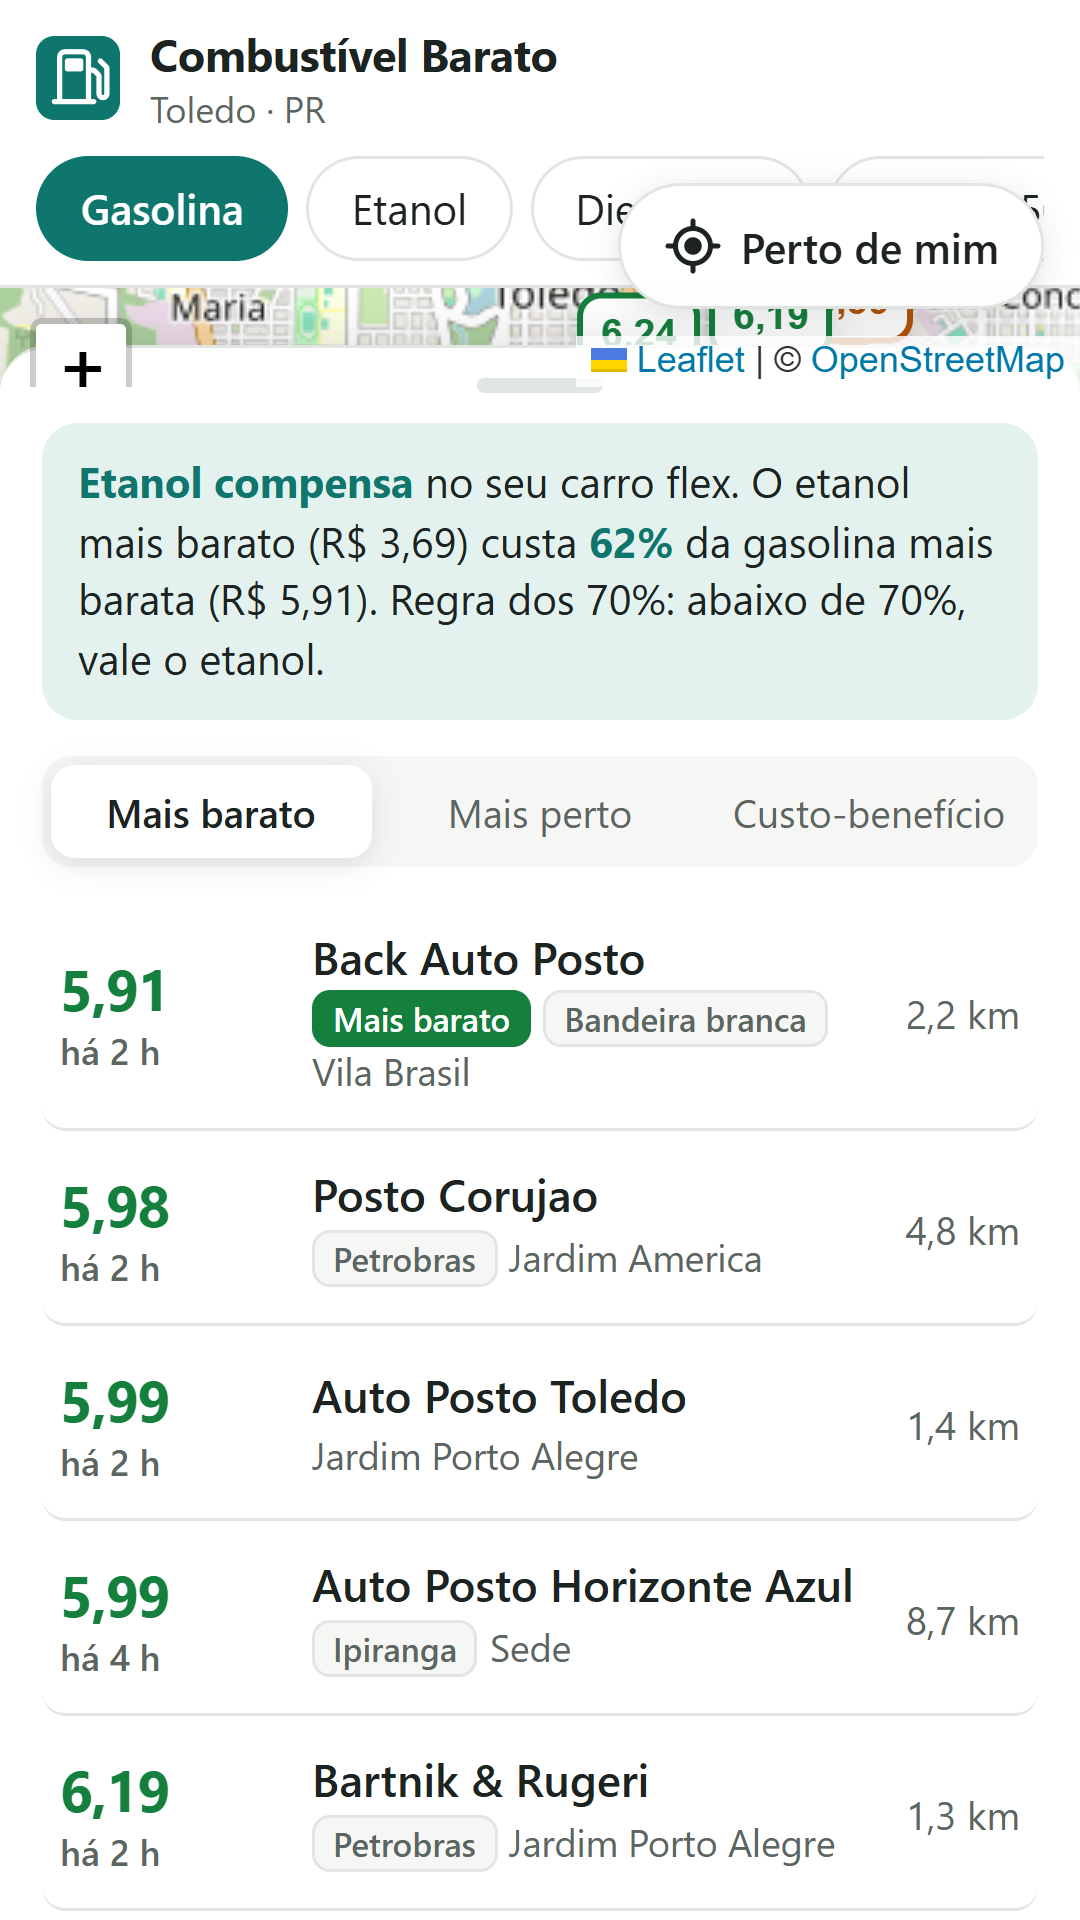
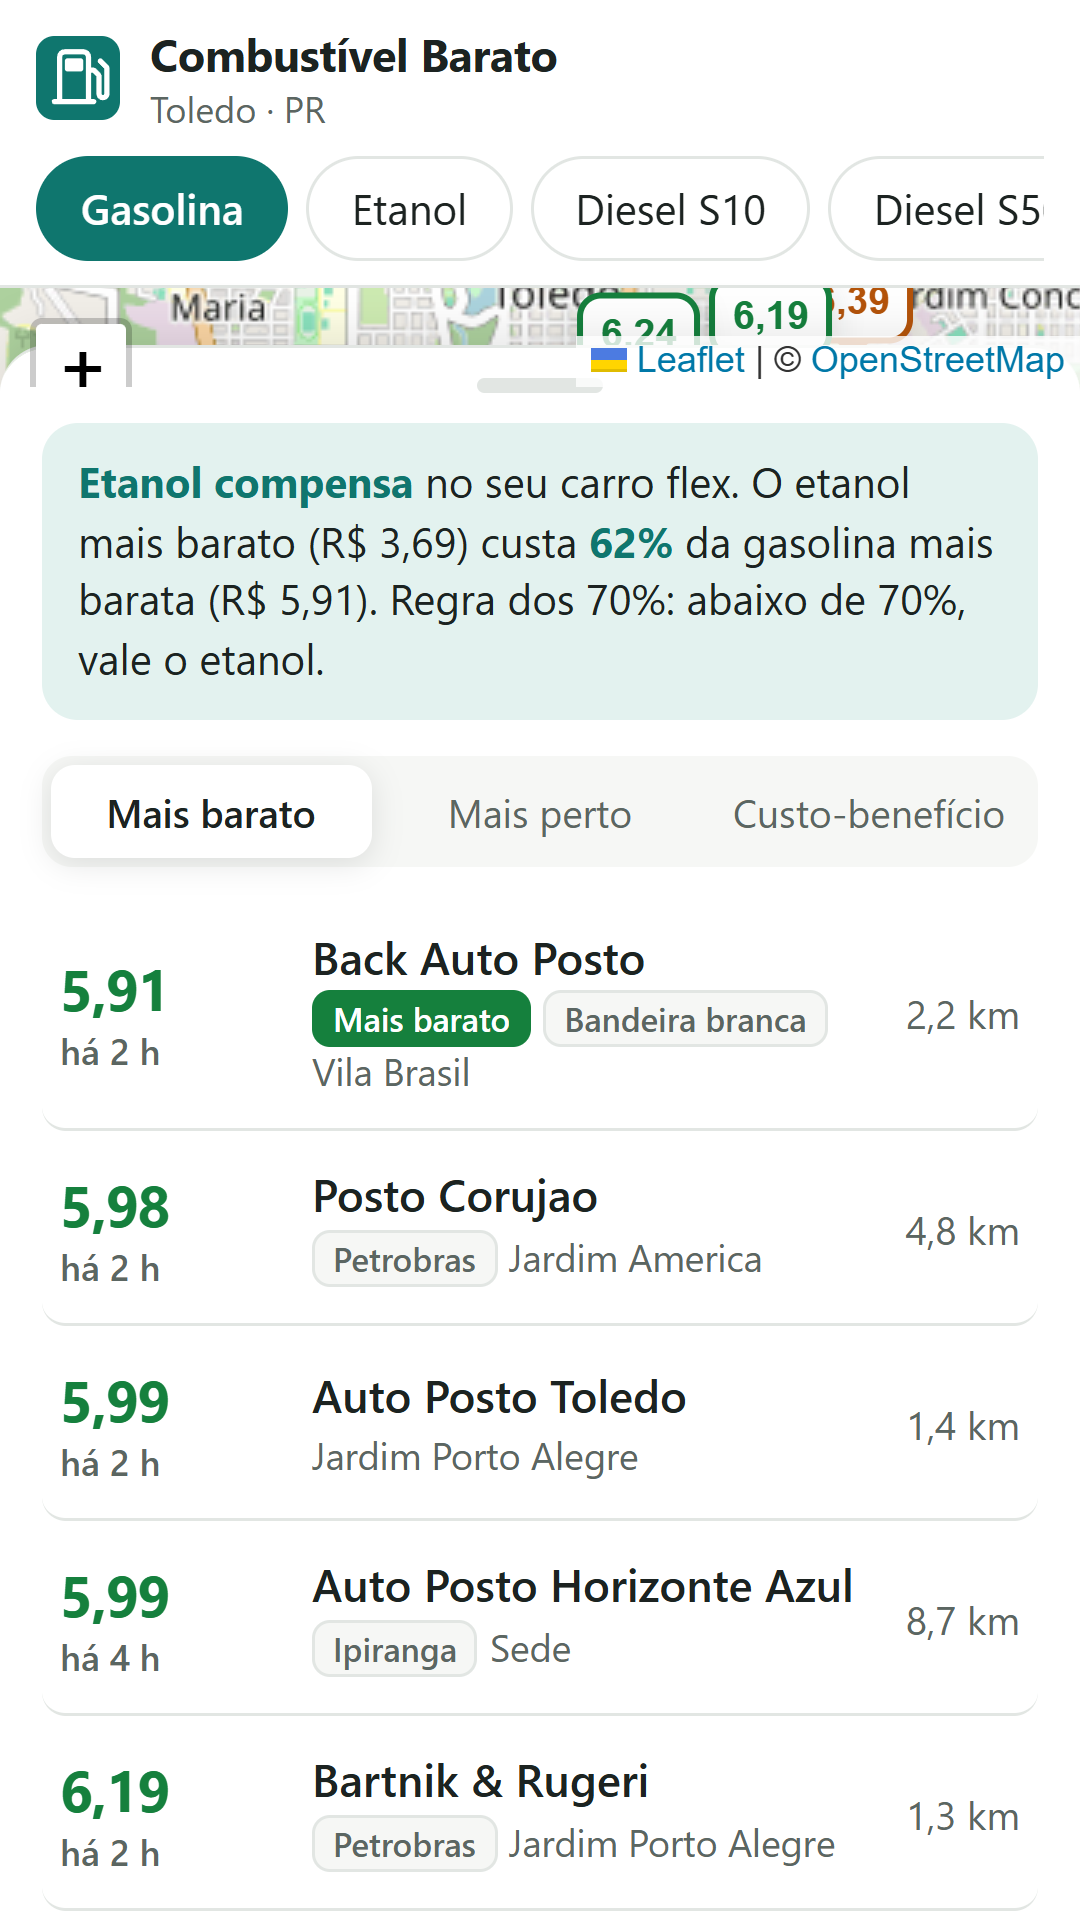
Play Store: guia passo a passo, capturas novas, compilação fora do OneDrive, versão 1.0.0

Changed region(s): [[0.5806, 0.0938, 0.9472, 0.1875]]

diff --git a/ferramentas/gerar-android.js b/ferramentas/gerar-android.js
@@ -24,7 +24,7 @@ const SITE = 'https://robsonmj.github.io/combustivel-barato/';
   j.name = 'Combustível Barato';
   j.launcherName = 'Combustível';
   j.appVersionCode = codigo;
-  j.appVersionName = nome;
+  j.appVersion = nome;
   j.navigationColor = '#0f766e';
   j.navigationColorDark = '#0f766e';
   j.themeColorDark = '#111614';

diff --git a/play-store/GUIA-PLAY-STORE.md b/play-store/GUIA-PLAY-STORE.md
@@ -1,0 +1,151 @@
+# Combustível Barato na Google Play: passo a passo
+
+Tudo o que dá para fazer sem você já está pronto. O que falta são as etapas que só o dono da conta pode fazer: pagar, verificar a identidade e clicar em "Publicar".
+
+## O que já está pronto
+
+| Item | Onde está |
+|---|---|
+| App Android assinado, para enviar à Play | `play-store/arquivos/combustivel-barato.aab` |
+| App para instalar direto no seu celular e testar | `play-store/arquivos/combustivel-barato.apk` |
+| Chave de assinatura e senha (**guarde cópia num pendrive**) | `android-chave/` (não vai para o GitHub) |
+| Verificação site ↔ app (o app abre em tela cheia, sem barra de endereço) | https://robsonmj.github.io/.well-known/assetlinks.json |
+| 5 capturas de tela 1080×1920 e gráfico de destaque 1024×500 | `play-store/imagens/` |
+| Ícone 512×512 | `public/icone-512.png` |
+| Política de privacidade | https://robsonmj.github.io/combustivel-barato/privacidade.html |
+| Página de exclusão de conta | https://robsonmj.github.io/combustivel-barato/excluir-conta.html |
+
+Nome do pacote, que não pode mudar depois: `io.github.robsonmj.combustivelbarato`
+
+---
+
+## Passo 1: criar a conta de desenvolvedor (só você pode)
+
+1. Acesse https://play.google.com/console/signup com o seu Gmail.
+2. Escolha o tipo de conta:
+   - **Pessoal** (CPF): mais rápida de abrir. Contas pessoais novas precisam fazer um **teste fechado com pelo menos 12 testadores durante 14 dias seguidos** antes de liberar o app para o público (Passo 4).
+   - **Organização** (CNPJ): exige o número D-U-N-S da empresa, que é gratuito e leva alguns dias. Não exige o teste com 12 pessoas. Só vale a pena se a empresa já existir; lembre da questão do seu estatuto.
+3. Pague a taxa única de **US$ 25** com cartão.
+4. Envie o documento com foto e confirme o telefone. O Google costuma levar de 1 a 3 dias para verificar.
+
+## Passo 2: criar o app no Console
+
+Em "Criar app":
+
+- **Nome do app:** Combustível Barato
+- **Idioma padrão:** Português (Brasil)
+- **App ou jogo:** App
+- **Gratuito ou pago:** Gratuito. Essa escolha não pode virar "pago" depois, mas você pode vender destaque e patrocínio fora do app normalmente.
+- Marque as duas declarações e clique em **Criar app**.
+
+## Passo 3: enviar o app para o teste fechado
+
+1. Menu **Testar e lançar → Testes → Teste fechado → Criar faixa** (ou use a faixa "Alpha").
+2. Em **Testadores**, crie uma lista com os e-mails (Gmail) de pelo menos 12 pessoas.
+3. **Criar nova versão**. Aceite a **Assinatura de apps do Google Play**, que é o padrão.
+4. Envie o arquivo `play-store/arquivos/combustivel-barato.aab`.
+5. **Nome da versão:** 1.0.0. **Notas:** "Primeira versão: preços de combustíveis dos postos de Toledo-PR no mapa."
+6. Salve, revise e envie para análise. A primeira análise leva de 1 a 7 dias.
+
+### ⚠ Importante logo depois do envio
+
+Vá em **Configuração → Integridade do app → Assinatura de apps** e copie o **SHA-256 da chave de assinatura do app**. É uma sequência como `AB:CD:12:...`.
+**Mande esse código para o Claude.** Ele precisa entrar no arquivo de verificação. Sem isso, o app baixado da Play abre com a barra de endereço do navegador no topo.
+
+## Passo 4: os 12 testadores por 14 dias (só conta pessoal)
+
+- Na faixa do teste fechado, copie o **link de participação** e mande para os testadores.
+- Cada pessoa abre o link, toca em "Tornar-se testador" e instala pela Play.
+- Elas precisam **manter o app instalado por 14 dias seguidos**. Peça que abram de vez em quando.
+- Depois disso, em **Painel → Solicitar acesso à produção**, responda ao questionário. Os textos prontos estão no fim deste guia.
+
+## Passo 5: preencher "Conteúdo do app"
+
+Fica no menu **Política → Conteúdo do app**. Respostas prontas:
+
+| Pergunta | Resposta |
+|---|---|
+| Política de privacidade | https://robsonmj.github.io/combustivel-barato/privacidade.html |
+| Acesso ao app | "Todas ou algumas funcionalidades são restritas". Instruções: *"O app principal (mapa e preços) não exige login. Apenas a 'Área do posto' (link no rodapé) exige login por link enviado ao e-mail e aprovação manual, pois é exclusiva para donos de postos verificados. Todas as funções para motoristas podem ser testadas sem login."* |
+| Anúncios | **Sim, o app contém anúncios** (faixa de patrocinadores e postos patrocinados) |
+| Classificação de conteúdo | Categoria "Todos os outros tipos de app". Responda **Não** a tudo: violência, sexo, linguagem, drogas, apostas, compras digitais, interação entre usuários e compartilhamento de localização com outros usuários. Resultado esperado: **Livre (L)** |
+| Público-alvo | **18 anos ou mais**, para evitar as regras de apps para crianças |
+| App de notícias | Não |
+| Apps governamentais | **Não** é app do governo (o app já diz que é independente) |
+| Recursos financeiros | O app não oferece recursos financeiros |
+| Saúde | Não |
+| Segurança dos dados | Ver a tabela abaixo |
+
+### Segurança dos dados (Data safety)
+
+- **O app coleta ou compartilha dados?** Sim.
+- **Os dados são criptografados em trânsito?** Sim.
+- **Usuários podem pedir exclusão?** Sim. URL: https://robsonmj.github.io/combustivel-barato/excluir-conta.html
+- **Dados coletados**, todos apenas de **donos de posto**, **não compartilhados**, **opcionais** e usados para **Funcionalidade do app** e **Gerenciamento da conta**:
+  - Informações pessoais: **Endereço de e-mail**, **Nome**, **Número de telefone**.
+- **Localização:** **não declarar**. Ela é usada só no aparelho para calcular a distância e não é enviada a nenhum servidor.
+
+## Passo 6: página da loja (Presença na loja → Página principal)
+
+**Nome do app** (até 30 caracteres):
+```
+Combustível Barato
+```
+
+**Descrição breve** (até 80 caracteres):
+```
+Preço da gasolina, etanol e diesel nos postos de Toledo-PR, no mapa.
+```
+
+**Descrição completa:**
+```
+Encontre o combustível mais barato perto de você.
+
+O Combustível Barato mostra no mapa o preço da gasolina, etanol, diesel S10 e diesel S500 nos postos de Toledo (PR), com os preços mais recentes de cada posto.
+
+• Mapa com o preço de cada posto
+• Lista ordenada por mais barato, mais perto ou custo-benefício (preço + distância até lá)
+• Etanol ou gasolina? O app calcula a regra dos 70% para o seu carro flex
+• Rota até o posto pelo Google Maps ou Waze, com um toque
+• Sem cadastro e sem login para motoristas
+• Sua localização é usada só no seu celular, para calcular distâncias
+
+De onde vêm os preços
+Os preços vêm das informações públicas do Nota Paraná / Menor Preço (valores registrados nas notas fiscais eletrônicas de venda) e dos próprios postos parceiros, que aparecem com o selo "Confirmado pelo posto". O horário mostrado é o da última venda registrada. Confira sempre o preço na bomba.
+
+É dono de posto?
+Na "Área do posto" você atualiza os preços do seu posto gratuitamente e ganha o selo de preço confirmado. Também é possível anunciar com destaque no app.
+
+O Combustível Barato é um app independente, sem vínculo com o Governo do Paraná, a Secretaria da Fazenda ou o programa Nota Paraná.
+```
+
+**Imagens:**
+- Ícone do app (512×512): `public/icone-512.png`
+- Gráfico de destaque (1024×500): `play-store/imagens/grafico-destaque-1024x500.png`
+- Capturas de tela do telefone, na ordem: `play-store/imagens/1-...` até `5-...`
+
+**Categoria:** Mapas e navegação. **Tags:** Postos de combustível, Economia.
+**E-mail de contato:** robsonmj@gmail.com. **Site:** https://robsonmj.github.io/combustivel-barato/
+
+## Questionário de acesso à produção (só conta pessoal), com respostas sugeridas
+
+- *Como você recrutou os testadores?* "Amigos, familiares e motoristas de Toledo-PR convidados pessoalmente e pelo WhatsApp."
+- *Como foi o engajamento?* "Os testadores usaram o mapa para comparar preços antes de abastecer e testaram a rota até o posto e a troca de combustível."
+- *Que mudanças você fez com base no retorno?* Descreva o que mudou de fato. Exemplo: "Ajustamos o botão 'Perto de mim' para não cobrir a lista e deixamos mais claro de onde vêm os preços."
+- *Público do app:* "Motoristas de Toledo-PR que querem economizar no combustível."
+
+---
+
+## Depois de publicado: como ficam as atualizações
+
+- **Quase tudo se atualiza sozinho.** O app da Play abre o site, então preços, telas e correções chegam a todos na hora, sem enviar versão nova à loja. Isso vale também para quem instalou pelo navegador.
+- **Só precisa gerar um `.aab` novo** se mudar o nome, o ícone ou as cores do app. O Claude faz isso com:
+  ```
+  node ferramentas/gerar-android.js 2 1.0.1
+  bash ferramentas/compilar-android.sh
+  ```
+  O primeiro número (código da versão) precisa aumentar a cada envio.
+
+## Atenção: preços dependem do seu PC
+
+A coleta de preços roda no seu computador, de hora em hora. Com o app na loja, se o PC ficar desligado, os preços envelhecem e o app avisa o usuário. Antes de divulgar em massa, vale manter o PC ligado ou resolver isso de vez com a resposta da Secretaria da Fazenda (SEFA).
